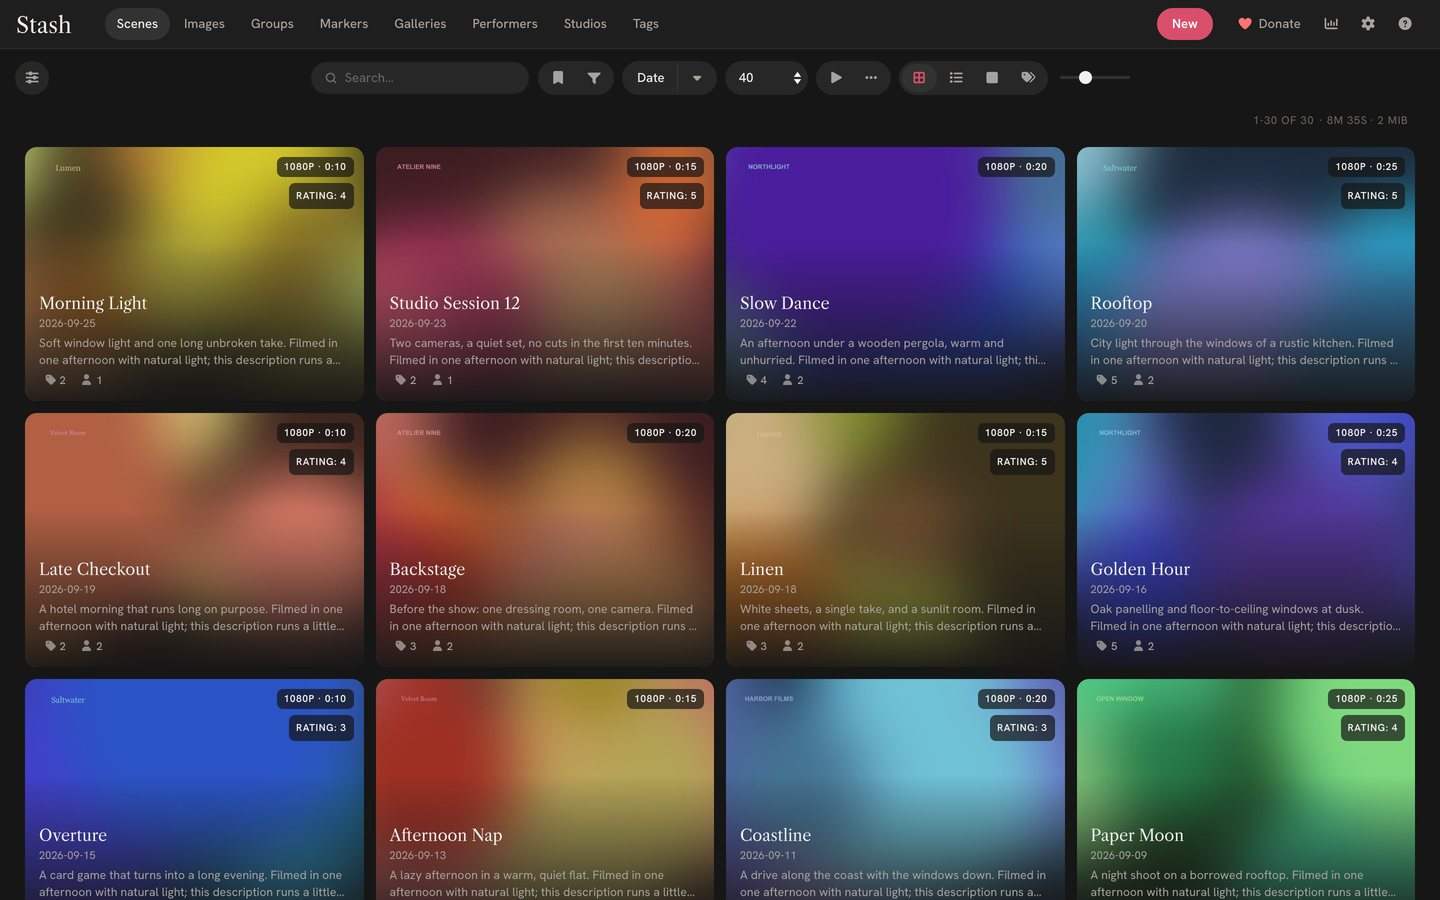
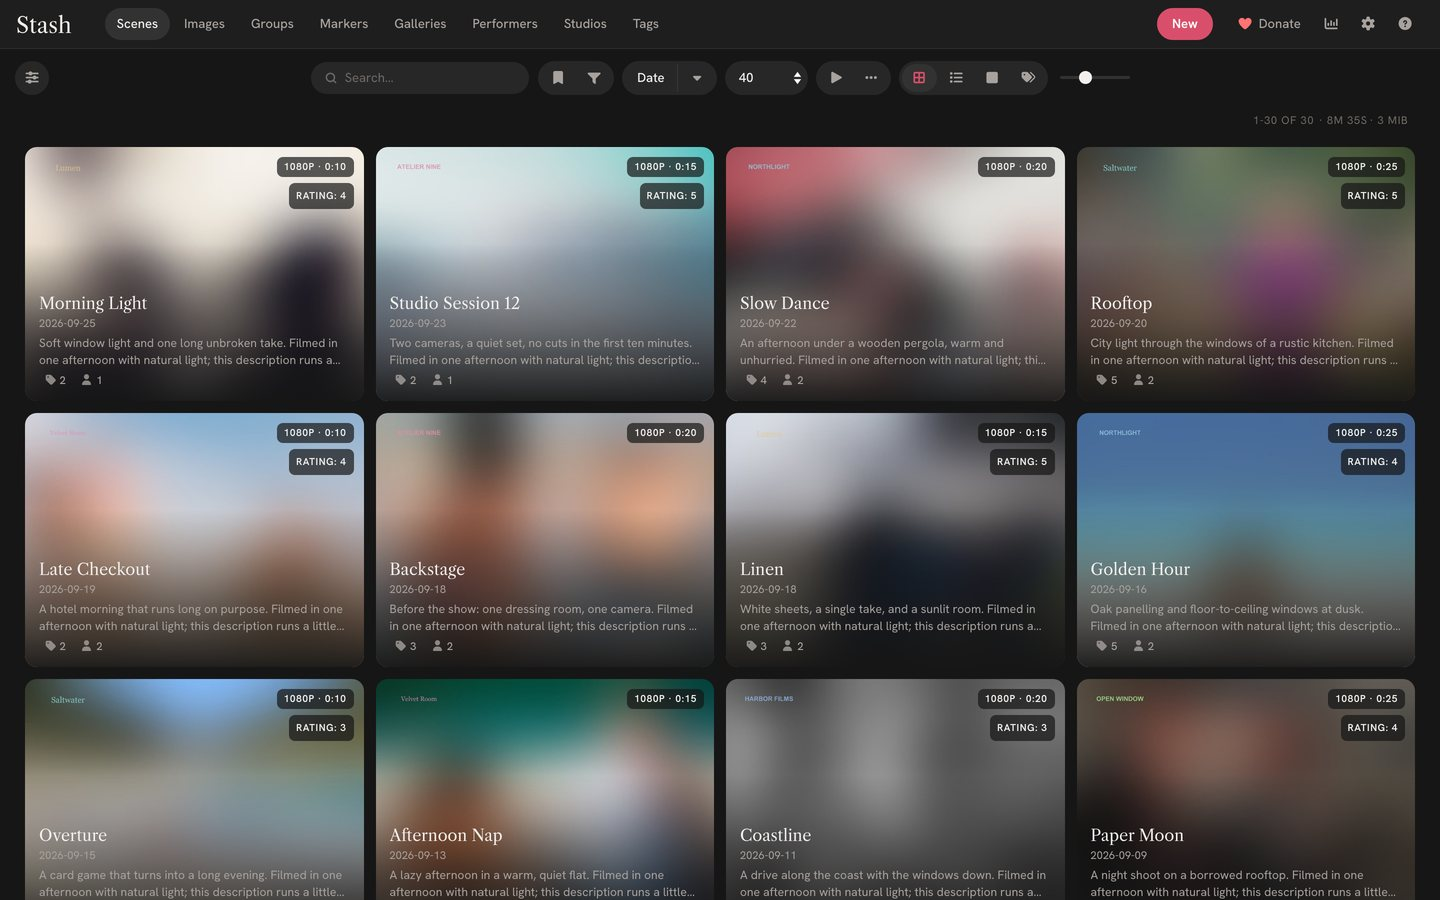
Screenshots: blurred photo covers instead of gradients, with credits

diff --git a/README.md b/README.md
@@ -1,3 +1,30 @@
 # Screenshots
 
-Images for the Theme-Reel and Theme-Velour README files and pull requests, taken on an empty Stash v0.31.1 with generated demo content (abstract gradients, fictional names). Not part of any plugin.
+Images for the Theme-Reel and Theme-Velour README files and pull requests, taken on an empty Stash v0.31.1 with demo content. Not part of any plugin.
+
+## Photo credits
+
+Scene covers and performer portraits are adapted from the openly licensed photos below (found via Openverse): cropped, mirrored and heavily blurred so no one is identifiable. The titles, names, studios and details are fictional and unrelated to the people photographed.
+
+- The way we were by VV Nincic, CC BY 2.0 — https://www.flickr.com/photos/133904091@N04/49960294428
+- LomoChrome Purple at the Beach by thart2009, CC BY 2.0 — https://www.flickr.com/photos/37089490@N06/52477014552
+- Untitled #007 by Never Edit, CC BY 2.0 — https://www.flickr.com/photos/134242952@N03/29189740993
+- Our guide Zaw with Glennis outside the house of a wealthy couples house in a local village by PiktourUK, CC BY 2.0 — https://www.flickr.com/photos/69706441@N03/32954120983
+- shoes by amira_a, CC BY 2.0 — https://www.flickr.com/photos/46646401@N06/52341328241
+- Couple Watching The TV Crew by Joey Z1, CC BY 2.0 — https://www.flickr.com/photos/45958601@N02/51811898360
+- Untitled by amira_a, CC BY 2.0 — https://www.flickr.com/photos/46646401@N06/51706070528
+- Woman in Black and White Bikini - Credit to http://homedust.com/ by Homedust, CC BY 2.0 — https://www.flickr.com/photos/159630537@N08/41851229755
+- Bikini Beach by Thank You (23 Millions+) views, CC BY 2.0 — https://www.flickr.com/photos/34128007@N04/44418933020
+- Life's a beach by Axel Bührmann, CC BY 2.0 — https://www.flickr.com/photos/9852972@N03/51749693029
+- A motion with the lotion by Axel Bührmann, CC BY 2.0 — https://www.flickr.com/photos/9852972@N03/51749064781
+- A Study in Scarlet by quinet, CC BY 2.0 — https://www.flickr.com/photos/91994044@N00/54454229640
+- Free woman pool by unknown, CC0 1.0 — https://www.rawpixel.com/image/5907337/free-woman-the-pool-public-domain-cc0-photo
+- Ordering Take-Out by Michel Curi, CC BY 2.0 — https://www.flickr.com/photos/119886413@N05/21554899659
+- Leisure by FamiljenHelsingborg, CC BY 2.0 — https://www.flickr.com/photos/128195157@N03/16792602469
+- Me in 1975 by prague.czech.photo, CC BY 2.0 — https://www.flickr.com/photos/99424477@N04/13574808853
+- Rumer has it ! by amira_a, CC BY 2.0 — https://www.flickr.com/photos/46646401@N06/19245899561
+- Busy by Go-tea 郭天, CC BY 2.0 — https://www.flickr.com/photos/131814204@N04/51400985446
+- 62914 Sandy Hook-5 by jerseytom55, CC BY 2.0 — https://www.flickr.com/photos/99576374@N02/14558714831
+- Summer 2023 by steeve_77, Public Domain Mark 1.0 — https://www.flickr.com/photos/192111545@N04/55368013733
+- Woman at beach by Jean-Philippe Abso, CC BY 2.0 — https://www.flickr.com/photos/159270194@N08/52927327144
+- woman at beach by Jean-Philippe Abso, CC BY 2.0 — https://www.flickr.com/photos/159270194@N08/52927474289
